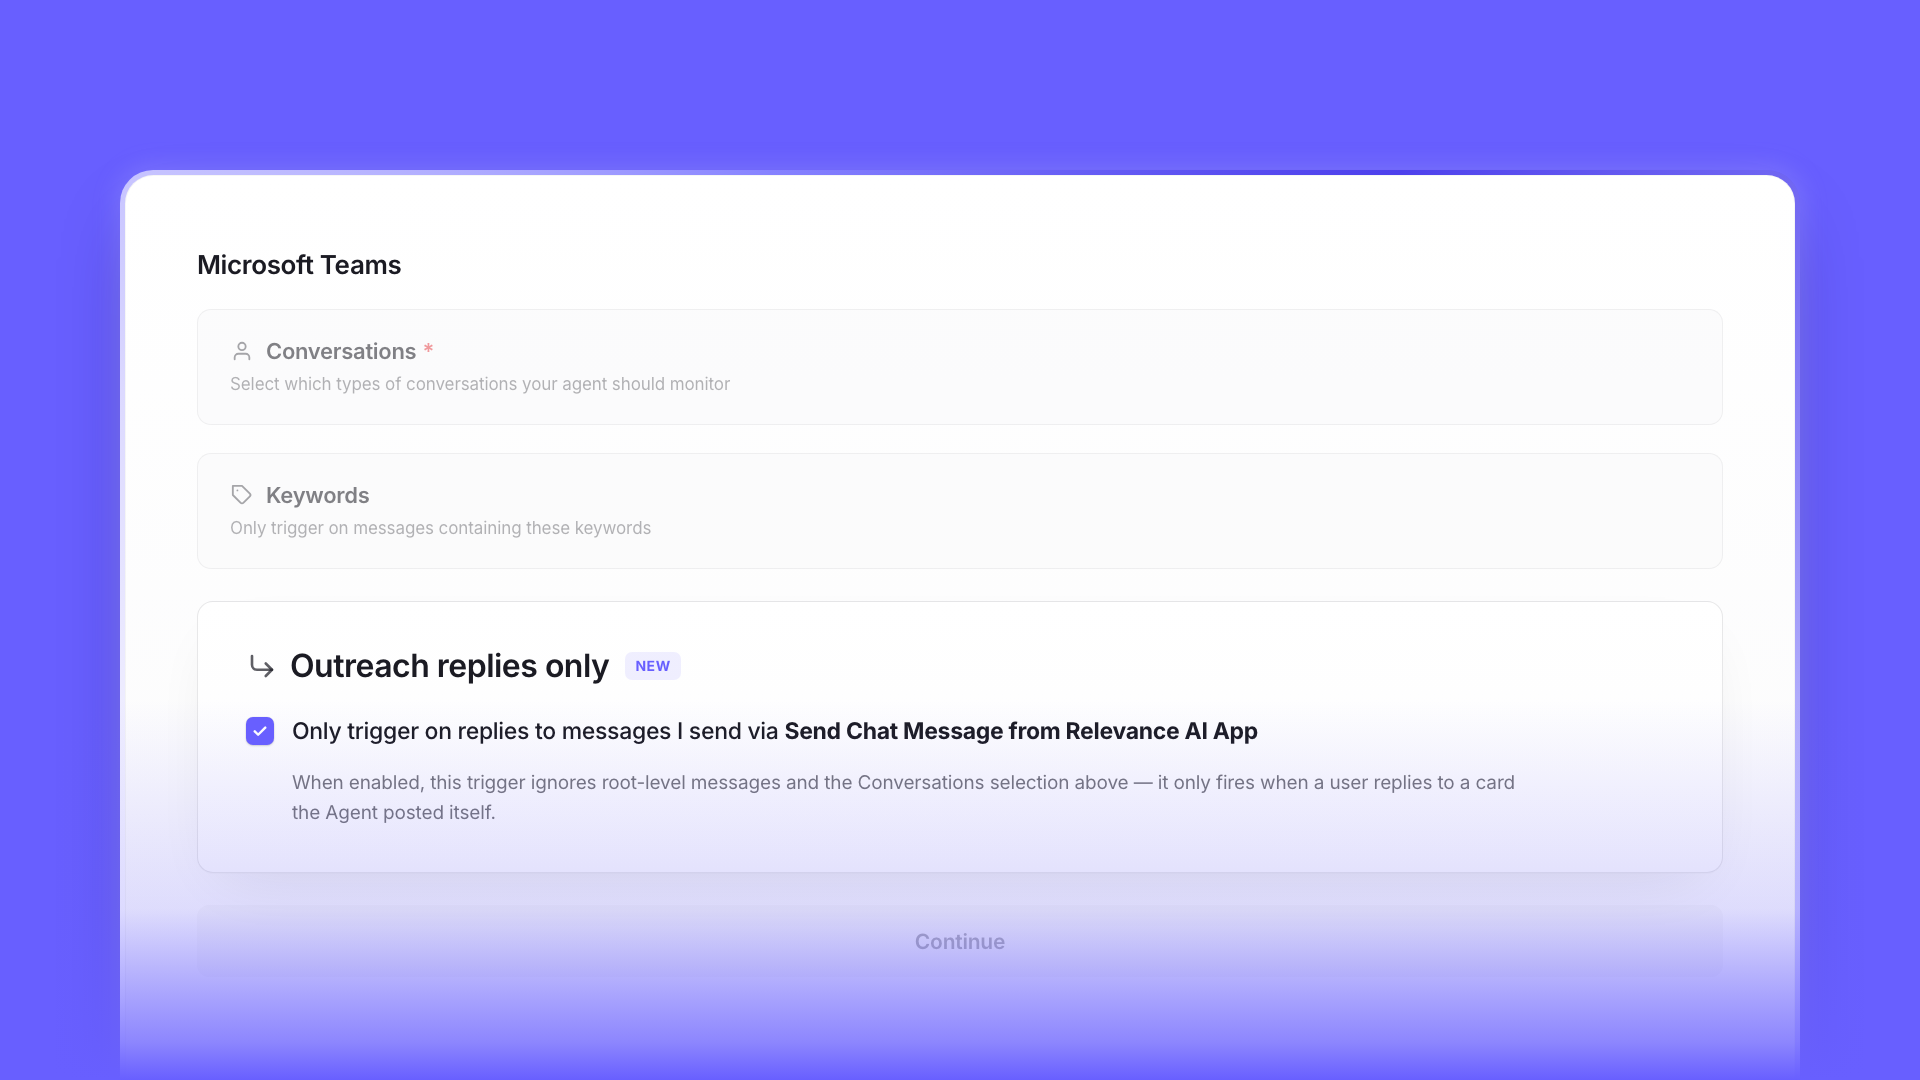
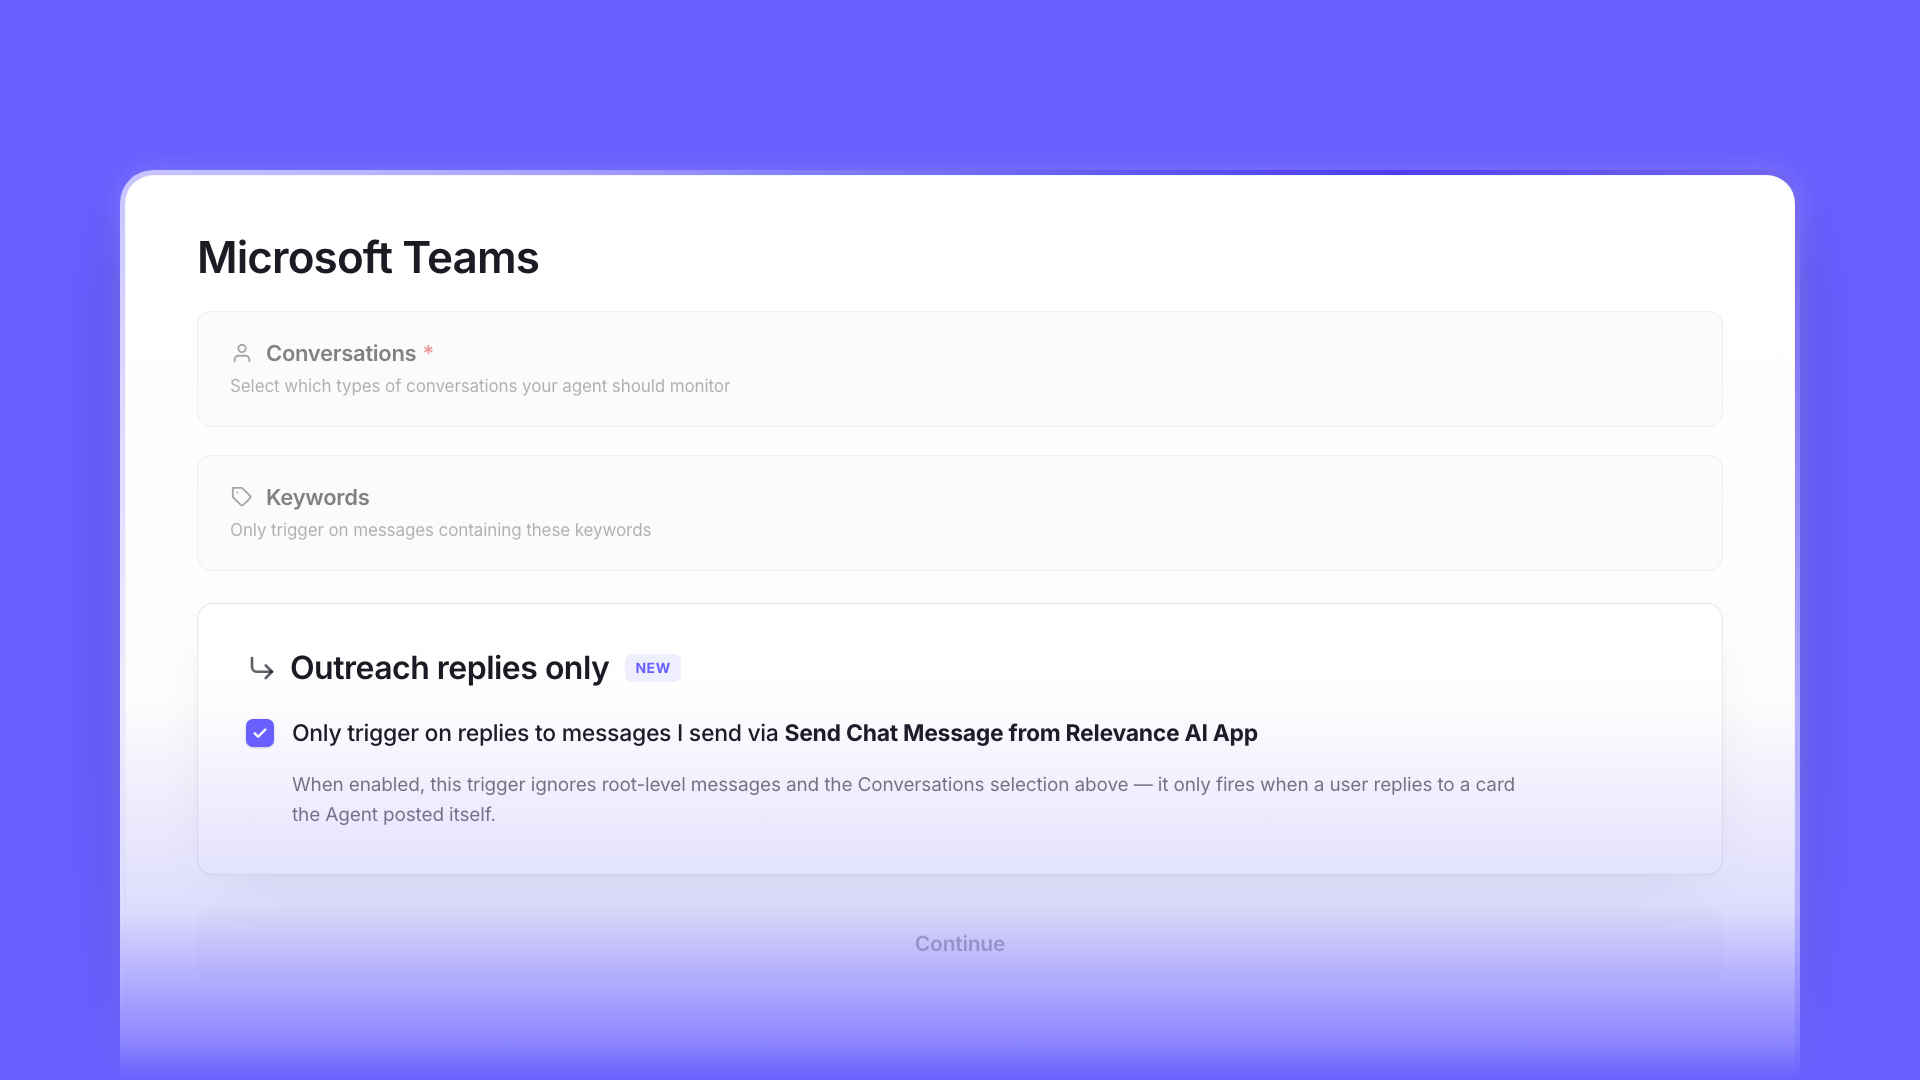
docs(changelog): drop bottom rail fade, swap Teams hero image
- style.css: remove the last-entry bottom fade-out gradient on the
  changelog timeline rail. The selector relied on
  :not(:has(+ .update-container))::before which was the most complex
  :has() usage in the file. Visual impact is minor — the rail now
  terminates sharply at the bottom of the last entry instead of fading
  out. Brings :has() count in style.css from 4 down to 2.

- Swap the May 21 Microsoft Teams hero image to the newer screenshot
  showing the full trigger config (Conversations, Keywords, Outreach
  replies only).

diff --git a/style.css b/style.css
@@ -125,24 +125,6 @@ div#content-side-layout {
     );
   }
 
-  /* Last entry: extend 12px below the card and fade out over that 12px. */
-  .mdx-content[data-page-title^="Changelog"] > .update-container:not(:has(+ .update-container))::before {
-    bottom: -12px;
-    background: linear-gradient(
-      to bottom,
-      rgba(79, 70, 229, 0.35) calc(100% - 12px),
-      rgba(79, 70, 229, 0) 100%
-    );
-  }
-
-  .dark .mdx-content[data-page-title^="Changelog"] > .update-container:not(:has(+ .update-container))::before {
-    background: linear-gradient(
-      to bottom,
-      rgba(129, 140, 248, 0.45) calc(100% - 12px),
-      rgba(129, 140, 248, 0) 100%
-    );
-  }
-
   /* Indigo dot sitting on the line, vertically centered with the date label.
      Math: update-container has py-8 (2rem top padding), date label is text-sm
      (~28px tall with py-1). Center of label is ~2rem + 14px from container top.